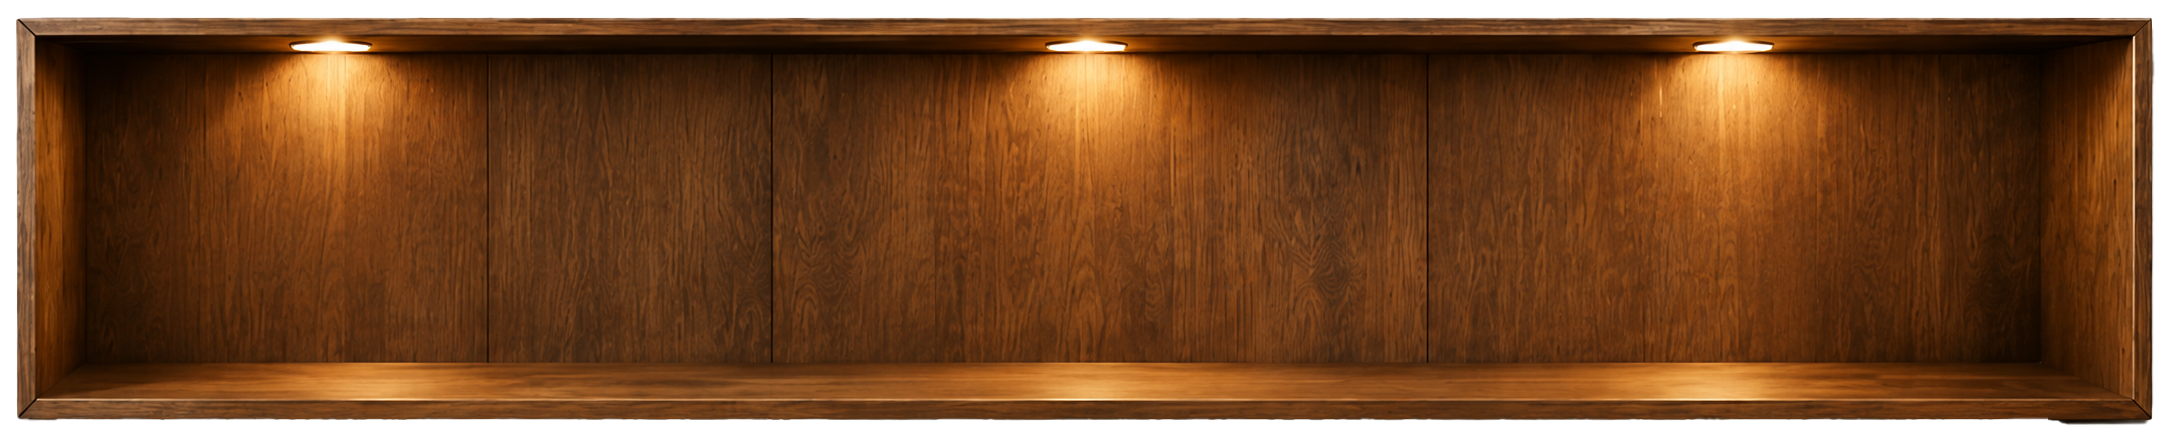
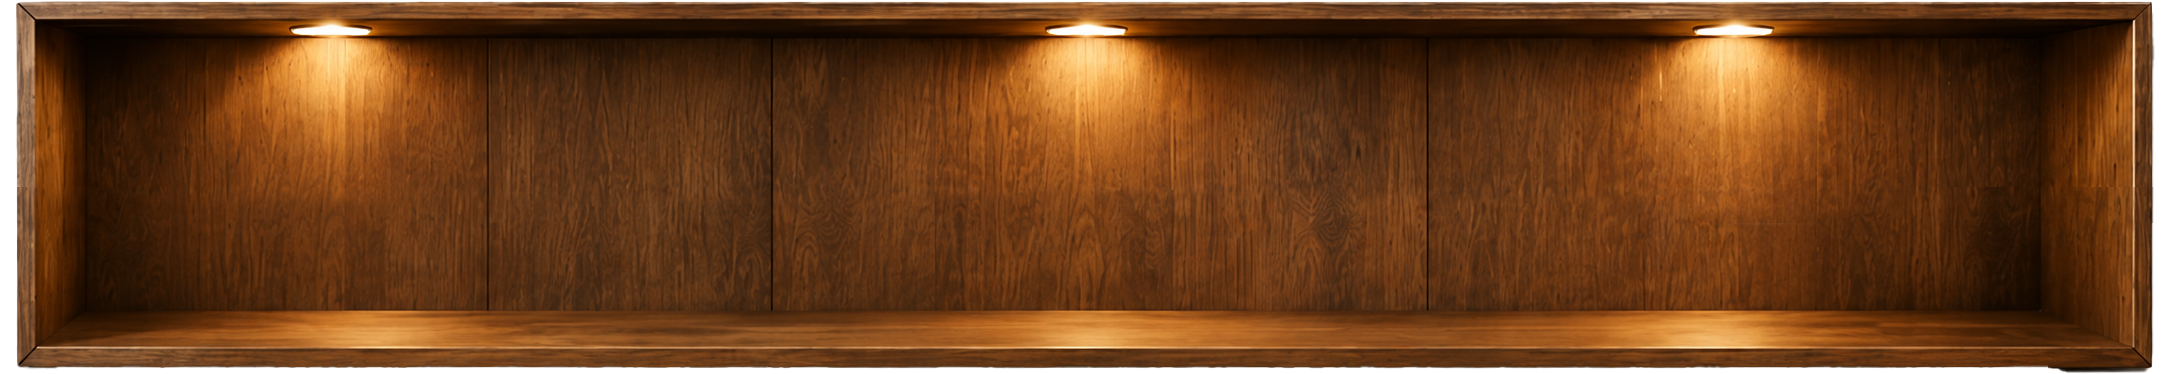
Refine compact category bookshelves

diff --git a/platform/public/assets/public-book-shelf.css b/platform/public/assets/public-book-shelf.css
@@ -1,13 +1,15 @@
-.public-book-shelf{position:relative;isolation:isolate;max-width:1590px;min-height:230px;aspect-ratio:2172/439;margin:0 auto 12px;color:#fff7e8}
+.public-book-shelf{position:relative;isolation:isolate;max-width:1590px;min-height:190px;aspect-ratio:2172/374;margin:0 auto 12px;color:#fff7e8}
 .public-book-shelf [hidden]{display:none!important}
 .public-book-shelf-background{display:block;width:100%;height:100%;position:absolute;inset:0;object-fit:fill;pointer-events:none}
 .public-book-shelf-inner{position:absolute;inset:0}
-.public-book-shelf-stage{position:absolute;inset:16% 3.5% 4%;display:flex;align-items:flex-end;min-width:0}
+.public-book-shelf-stage{position:absolute;inset:10% 4% calc(22% - 37px);display:flex;align-items:flex-end;min-width:0}
 .public-book-shelf-categories{display:flex;align-items:flex-end;gap:clamp(10px,1.2vw,20px);flex:none;width:max-content;max-width:100%;height:100%;min-width:0;overflow:hidden}
 .public-book-shelf-category{display:flex;flex-direction:column;align-items:flex-start;justify-content:flex-end;flex:none;width:max-content;max-width:100%;height:100%;min-width:0}
-.public-book-shelf-category-books{display:flex;align-items:flex-end;flex:1;width:max-content;max-width:100%;min-width:0;padding-top:10px;box-sizing:border-box;overflow-x:auto;overflow-y:hidden;scrollbar-width:thin;scrollbar-color:#c39151 transparent}
-.public-book-shelf-category-name{display:block;max-width:100%;min-width:95px;min-height:33px;margin-top:4px;padding:4px 10px 5px;border-radius:7px;background:#102132dc;color:#fff;overflow-wrap:anywhere;font:700 clamp(15px,1.35vw,22px)/1.18 Georgia,serif;text-shadow:0 1px 2px #000}
-.public-book-shelf-book{--book-height:clamp(158px,14vw,230px);display:flex;align-items:center;justify-content:center;flex-direction:column;flex:none;position:relative;width:clamp(34px,3vw,52px);height:min(var(--book-height),calc(100% - 10px));padding:8px 3px 10px;border:1px solid #2a2728;border-left-color:#f9ebc688;border-right:3px solid #0c1a25a8;border-radius:4px 6px 3px 3px;color:#fff6df!important;background:linear-gradient(90deg,#ffffff30 0%,transparent 12%,#00000024 84%,#00000069 100%),var(--book-color,#203e50);box-shadow:2px 1px 5px #0a111584,inset 2px 0 2px #ffffff25;text-decoration:none;cursor:pointer;transition:transform .22s ease,box-shadow .22s ease;z-index:1}
+.public-book-shelf-category-books{display:flex;align-items:flex-end;flex:1;width:max-content;max-width:100%;min-width:0;padding-top:16px;box-sizing:border-box;overflow:visible;scrollbar-width:thin;scrollbar-color:#c39151 transparent}
+.public-book-shelf-category-scrollable .public-book-shelf-category-books{overflow-x:auto;overflow-y:hidden}
+.public-book-shelf-category-name{display:block;max-width:100%;min-width:95px;min-height:33px;margin-top:4px;padding:4px 10px 5px;border-radius:7px;background:#102132dc;color:#fff!important;text-decoration:none;overflow-wrap:anywhere;font:700 clamp(15px,1.35vw,22px)/1.18 Georgia,serif;text-shadow:0 1px 2px #000}
+.public-book-shelf-category-name:is(a):hover,.public-book-shelf-category-name:is(a):focus-visible{background:#a06c20;outline:2px solid #fff8e7;outline-offset:2px}
+.public-book-shelf-book{--book-height:clamp(140px,12vw,190px);display:flex;align-items:center;justify-content:center;flex-direction:column;flex:none;position:relative;width:clamp(32px,2.35vw,43px);height:min(var(--book-height),calc(100% - 16px));padding:8px 3px 10px;border:1px solid #2a2728;border-left-color:#f9ebc688;border-right:3px solid #0c1a25a8;border-radius:4px 6px 3px 3px;color:#fff6df!important;background:linear-gradient(90deg,#ffffff30 0%,transparent 12%,#00000024 84%,#00000069 100%),var(--book-color,#203e50);box-shadow:2px 1px 5px #0a111584,inset 2px 0 2px #ffffff25;text-decoration:none;cursor:pointer;transition:transform .22s ease,box-shadow .22s ease;transform-origin:50% 100%;z-index:1}
 .public-book-shelf-book:nth-child(2n){--book-height:clamp(152px,13.1vw,214px)}
 .public-book-shelf-book:nth-child(3n){--book-height:clamp(156px,13.6vw,222px)}
 .public-book-shelf-book-1{--book-color:#d6b885;color:#172437!important;border-color:#8c704a}
@@ -20,15 +22,15 @@
 .public-book-shelf-book-title{writing-mode:vertical-rl;transform:rotate(180deg);display:block;max-height:calc(100% - 35px);max-width:calc(100% - 6px);overflow:hidden;overflow-wrap:anywhere;text-align:center;font:600 clamp(10px,.82vw,13px)/1.15 Georgia,serif;text-shadow:0 1px 1px #0007}
 .public-book-shelf-book-1 .public-book-shelf-book-title,.public-book-shelf-book-5 .public-book-shelf-book-title{text-shadow:none}
 .public-book-shelf-book-mark{position:absolute;bottom:3px;color:#d4ac5a;font:14px Georgia,serif}
-.public-book-shelf-book:hover,.public-book-shelf-book:focus-visible{z-index:3;transform:translateY(-9px) scale(1.04);box-shadow:0 13px 20px #0a1115ba,inset 2px 0 2px #ffffff48}
+.public-book-shelf-book:hover,.public-book-shelf-book:focus-visible{z-index:3;transform:perspective(450px) translateZ(50px) rotateY(-14deg) rotateZ(-3deg);box-shadow:14px 12px 22px #0a1115ba,inset 2px 0 2px #ffffff48}
 .public-book-shelf-book:focus-visible{outline:2px solid #fff7de;outline-offset:2px}
-.public-book-shelf-decor{display:flex;align-items:flex-end;gap:clamp(7px,1vw,18px);flex:none;margin-left:auto;height:100%;min-width:0;pointer-events:none}
+.public-book-shelf-decor{display:flex;align-items:flex-end;gap:clamp(7px,1vw,18px);flex:none;margin-left:auto;height:100%;min-width:0;padding-bottom:37px;box-sizing:border-box;pointer-events:none}
 .public-book-shelf-motto{align-self:flex-start;white-space:pre-line;min-width:clamp(78px,9vw,145px);padding-top:10%;font:italic clamp(16px,2vw,29px)/1.16 Georgia,serif;color:#f9e0a5;text-shadow:0 1px 3px #36200a}
-.public-book-shelf-globe{display:block;width:clamp(93px,9vw,145px);height:auto;max-height:100%;object-fit:contain}
+.public-book-shelf-globe{display:block;width:clamp(145px,13vw,205px);height:auto;max-height:100%;object-fit:contain}
 .public-book-shelf-plant-right,.public-book-shelf-plant-left{display:block;width:clamp(105px,10vw,165px);height:auto;max-height:100%;object-fit:contain}
-.public-book-shelf-plant-left{flex:none;pointer-events:none}
+.public-book-shelf-plant-left{flex:none;margin-bottom:37px;pointer-events:none}
 .public-book-shelf-all{display:block;flex:none;align-self:flex-end;margin-left:auto;margin-bottom:4px;padding:8px 10px;border-radius:6px;background:#102132e8;color:#fff!important;white-space:nowrap;font:600 12px Inter,Arial,sans-serif;text-decoration:none;box-shadow:0 3px 8px #0008}
 .public-book-shelf-all:hover,.public-book-shelf-all:focus-visible{background:#8d621e;outline-color:#fff}
 @media(max-width:1550px){.public-book-shelf{margin-left:24px;margin-right:24px}}
-@media(max-width:800px){.public-book-shelf{margin:0 16px 12px;min-height:245px;aspect-ratio:auto}.public-book-shelf-background{object-fit:cover;object-position:center}.public-book-shelf-stage{inset:19% 6% 6%}.public-book-shelf-book{width:37px}.public-book-shelf-category-name{font-size:16px;min-height:30px}.public-book-shelf-motto{font-size:16px}.public-book-shelf-globe{width:60px}.public-book-shelf-plant-left,.public-book-shelf-plant-right{width:65px}}
+@media(max-width:800px){.public-book-shelf{margin:0 16px 12px;min-height:225px;aspect-ratio:auto}.public-book-shelf-background{object-fit:cover;object-position:center}.public-book-shelf-stage{inset:12% 6% calc(22% - 34px)}.public-book-shelf-book{width:35px}.public-book-shelf-category-name{font-size:16px;min-width:80px;min-height:30px;padding:4px 6px}.public-book-shelf-decor{padding-bottom:34px}.public-book-shelf-plant-left{margin-bottom:34px}.public-book-shelf-motto{font-size:16px}.public-book-shelf-globe{width:90px}.public-book-shelf-plant-left,.public-book-shelf-plant-right{width:55px}}
 @media(prefers-reduced-motion:reduce){.public-book-shelf-book{transition:none}.public-book-shelf-book:hover,.public-book-shelf-book:focus-visible{transform:none}}

diff --git a/platform/public/assets/public-book-shelf.js b/platform/public/assets/public-book-shelf.js
@@ -20,7 +20,7 @@
     const motto = shelf.querySelector('[data-shelf-motto]');
     const globe = shelf.querySelector('[data-shelf-globe]');
     const right = shelf.querySelector('[data-shelf-plant-right]');
-    for (const group of groups) { group.hidden = false; group.style.maxWidth = ''; }
+    for (const group of groups) { group.hidden = false; group.style.maxWidth = ''; group.classList.remove('public-book-shelf-category-scrollable'); }
     left.hidden = true;
     motto.hidden = globe.hidden = right.hidden = true;
     all.hidden = true;
@@ -39,7 +39,10 @@
       for (const [index, group] of groups.entries()) {
         const next = used + (shown ? gap : 0) + widths[index];
         if (shown > 0 && next > budget) { group.hidden = true; continue; }
-        if (shown === 0 && widths[index] > budget) group.style.maxWidth = `${budget}px`;
+        if (shown === 0 && widths[index] > budget) {
+          group.style.maxWidth = `${budget}px`;
+          group.classList.add('public-book-shelf-category-scrollable');
+        }
         used += (shown ? gap : 0) + Math.min(widths[index], budget);
         shown++;
       }
@@ -47,6 +50,7 @@
       all.hidden = !overflow;
     } else if (groups.length === 1 && total > stage.clientWidth) {
       groups[0].style.maxWidth = `${stage.clientWidth}px`;
+      groups[0].classList.add('public-book-shelf-category-scrollable');
     }
 
     const free = Math.max(0, stage.clientWidth - used - (overflow ? widthOf(all) + gap : 0));

diff --git a/platform/tests/Feature/PublicTaxonomyUiTest.php b/platform/tests/Feature/PublicTaxonomyUiTest.php
@@ -31,6 +31,7 @@ class PublicTaxonomyUiTest extends TestCase
         $home = $this->get('/')->assertOk()->assertSee('data-public-book-shelf', false)
             ->assertSee('/assets/book-shelf/shelf.png', false)
             ->assertSee('public-book-shelf-book', false)->assertSee('Medizin')->assertSee('Anatomie')
+            ->assertSee('href="'.route('public.categories', ['category'=>'medizin']).'"', false)
             ->assertSee('href="'.route('public.beitraege', ['taxonomy'=>'anatomie']).'"', false)
             ->assertDontSee('public-taxonomy-crumbs', false)
             ->assertDontSee($cover->publicUrl(), false);
@@ -49,6 +50,7 @@ class PublicTaxonomyUiTest extends TestCase
         }
         $this->get('/beitraege')->assertOk()->assertSee('data-public-book-shelf', false)
             ->assertSee('Medizin')->assertSee('Anatomie')
+            ->assertSee('href="'.route('public.beitraege', ['taxonomy'=>'medizin']).'"', false)
             ->assertSee('href="'.route('public.beitraege', ['taxonomy'=>'anatomie']).'"', false)
             ->assertDontSee('public-taxonomy-crumbs', false);
         $this->get('/beitraege?taxonomy=medizin')->assertOk()->assertSee('Anatomie Beitrag');
@@ -77,7 +79,10 @@ class PublicTaxonomyUiTest extends TestCase
         $category = TaxonomyTerm::create(['kind'=>'category','name'=>'Empty category',
             'slug'=>'empty-category','active'=>true]);
 
-        $this->assertSame([['id'=>$category->id,'name'=>'Empty category']], app(\App\Services\PublicTaxonomy::class)->homeCategories());
+        $this->assertSame([[
+            'id'=>$category->id,'name'=>'Empty category','slug'=>'empty-category',
+            'url'=>route('public.categories', ['category'=>'empty-category']),
+        ]], app(\App\Services\PublicTaxonomy::class)->homeCategories());
         $this->get('/')->assertOk()->assertSee('Empty category')
             ->assertSee('data-shelf-plant-left', false)
             ->assertSee('data-shelf-category="0"', false)
@@ -95,9 +100,16 @@ class PublicTaxonomyUiTest extends TestCase
 
         $this->get('/themen')->assertOk()->assertSee('data-book-cabinet', false)
             ->assertSee('Anatomie und Bibelwissen')->assertSee('Gebet')
+            ->assertSee('href="'.route('public.categories', ['category'=>'medizin']).'"', false)
             ->assertSee('href="'.route('public.beitraege', ['taxonomy'=>'anatomie-bibelwissen']).'"', false)
             ->assertSee('href="'.route('public.beitraege', ['taxonomy'=>'gebet']).'"', false)
             ->assertSee('public-overview-hero', false);
+        $this->get('/themen?category=medizin')->assertOk()
+            ->assertSee('<title>Medizin', false)
+            ->assertSee('Anatomie und Bibelwissen')
+            ->assertDontSee('href="'.route('public.beitraege', ['taxonomy'=>'gebet']).'"', false)
+            ->assertViewHas('directoryShelves', fn (array $shelves) => count($shelves) === 1 && $shelves[0]['slug'] === 'medizin')
+            ->assertSee(__('public.category_directory_all'));
         $this->assertCount(2, app(\App\Services\PublicTaxonomy::class)->directoryShelves());
     }
 

diff --git a/platform/resources/views/public/categories.blade.php b/platform/resources/views/public/categories.blade.php
@@ -1,9 +1,9 @@
-@extends('public.layout', ['title'=>__('public.category_directory_title')])
+@extends('public.layout', ['title'=>$selectedShelf['name'] ?? __('public.category_directory_title')])
 @push('publicStyles')
-<link rel="stylesheet" href="/assets/public-book-shelf.css?v=1">
+<link rel="stylesheet" href="/assets/public-book-shelf.css?v=2">
 <link rel="stylesheet" href="/assets/public-category-directory.css?v=1">
 @endpush
-@push('publicScripts')<script src="/assets/public-book-shelf.js?v=1" defer></script>@endpush
+@push('publicScripts')<script src="/assets/public-book-shelf.js?v=2" defer></script>@endpush
 
 @section('content')
 @php
@@ -15,14 +15,14 @@
     <div class="public-overview-hero-inner">
         <div class="public-overview-copy">
             <p class="public-eyebrow">{{ __('public.categories') }}</p>
-            <h1>{{ __('public.category_directory_title') }}</h1>
-            <p class="public-overview-intro">{{ __('public.category_directory_intro') }}</p>
-            <div class="public-overview-actions"><a class="public-button" href="#cabinet">{{ __('public.category_directory_explore') }} →</a></div>
+            <h1>{{ $selectedShelf['name'] ?? __('public.category_directory_title') }}</h1>
+            <p class="public-overview-intro">{{ $selectedShelf ? __('public.category_directory_selected_intro') : __('public.category_directory_intro') }}</p>
+            <div class="public-overview-actions"><a class="public-button" href="{{ $selectedShelf ? route('public.categories') : '#cabinet' }}">{{ $selectedShelf ? __('public.category_directory_all') : __('public.category_directory_explore') }} →</a></div>
         </div>
         <div class="public-overview-feature public-directory-feature">
             <img class="public-photo" src="{{ $heroImage }}" alt="" aria-hidden="true">
             <div class="public-feature-content">
-                <span class="public-feature-label">{{ __('public.category_directory_title') }}</span>
+                <span class="public-feature-label">{{ $selectedShelf['name'] ?? __('public.category_directory_title') }}</span>
                 <h2>{{ trans_choice('public.category_directory_categories_count', $categoryCount, ['count'=>$categoryCount]) }}</h2>
                 <p>{{ trans_choice('public.category_directory_topics_count', $topicCount, ['count'=>$topicCount]) }}</p>
             </div>

diff --git a/platform/lang/de/public.php b/platform/lang/de/public.php
@@ -34,7 +34,7 @@ return [
     'featured_videos'=>'FEATURED VIDEO','featured_beitraege'=>'FEATURED BEITRAG','featured_buecher'=>'BUCH-EMPFEHLUNG','featured_podcast'=>'FEATURED PODCAST','featured_live'=>'NÄCHSTER LIVESTREAM','featured_ueber-uns'=>'WILLKOMMEN','featured_unsere-mission'=>'UNSERE MISSION',
     'all_beitraege'=>'Alle Beiträge','all_buecher'=>'Alle Bücher','all_podcast'=>'Alle Podcasts','all_community'=>'Alle Beiträge',
     'shelf_motto'=>"Wissen.\nGlaube.\nLeben.",
-    'shelf_see_all'=>'Alle ansehen','category_directory_title'=>'Kategorien und Themen','category_directory_intro'=>'Entdecke alle Kategorien und ihre Themen. Klicke auf ein Buch, um das Thema im passenden Bereich zu öffnen.','category_directory_explore'=>'Regale entdecken',
+    'shelf_see_all'=>'Alle ansehen','category_directory_title'=>'Kategorien und Themen','category_directory_intro'=>'Entdecke alle Kategorien und ihre Themen. Klicke auf ein Buch, um das Thema im passenden Bereich zu öffnen.','category_directory_selected_intro'=>'Entdecke alle Themen dieser Kategorie. Wähle ein Buch, um das Thema im passenden Bereich zu öffnen.','category_directory_explore'=>'Regale entdecken','category_directory_all'=>'Alle Kategorien',
     'category_directory_categories_count'=>'{1} :count Kategorie|[2,*] :count Kategorien','category_directory_topics_count'=>'{1} :count Thema|[2,*] :count Themen',
     'taxonomy_eyebrow'=>'THEMENWELTEN','categories'=>'Kategorien','explore_videos_by_topic'=>'Videos nach Themen entdecken','explore_beitraege_by_topic'=>'Beiträge nach Themen entdecken','explore_buecher_by_topic'=>'Bücher nach Themen entdecken','home_topics_title'=>'Themen, die dich bewegen','home_topics_intro'=>'Wähle zuerst ein Thema und dann den gewünschten Bereich. Videos, Beiträge und Bücher bleiben dabei getrennt.','home_topics_all'=>'Alle Themen entdecken',
     'section_item_count_videos'=>'{1} :count Video|[2,*] :count Videos','section_item_count_beitraege'=>'{1} :count Beitrag|[2,*] :count Beiträge','section_item_count_buecher'=>'{1} :count Buch|[2,*] :count Bücher',

diff --git a/platform/lang/en/public.php b/platform/lang/en/public.php
@@ -34,7 +34,7 @@ return [
     'featured_videos'=>'FEATURED VIDEO','featured_beitraege'=>'FEATURED ARTICLE','featured_buecher'=>'RECOMMENDED BOOK','featured_podcast'=>'FEATURED PODCAST','featured_live'=>'NEXT LIVESTREAM','featured_ueber-uns'=>'WELCOME','featured_unsere-mission'=>'OUR MISSION',
     'all_beitraege'=>'All articles','all_buecher'=>'All books','all_podcast'=>'All podcasts','all_community'=>'All posts',
     'shelf_motto'=>"Knowledge.\nFaith.\nLife.",
-    'shelf_see_all'=>'See all','category_directory_title'=>'Categories and topics','category_directory_intro'=>'Explore every category and its topics. Choose a book to open the topic in its matching section.','category_directory_explore'=>'Explore shelves',
+    'shelf_see_all'=>'See all','category_directory_title'=>'Categories and topics','category_directory_intro'=>'Explore every category and its topics. Choose a book to open the topic in its matching section.','category_directory_selected_intro'=>'Explore every topic in this category. Choose a book to open the topic in its matching section.','category_directory_explore'=>'Explore shelves','category_directory_all'=>'All categories',
     'category_directory_categories_count'=>'{1} :count category|[2,*] :count categories','category_directory_topics_count'=>'{1} :count topic|[2,*] :count topics',
     'taxonomy_eyebrow'=>'TOPIC WORLDS','categories'=>'Categories','explore_videos_by_topic'=>'Discover videos by topic','explore_beitraege_by_topic'=>'Discover articles by topic','explore_buecher_by_topic'=>'Discover books by topic','home_topics_title'=>'Topics that matter to you','home_topics_intro'=>'Choose a topic, then choose the section. Videos, articles and books always remain separate.','home_topics_all'=>'Discover all topics',
     'section_item_count_videos'=>'{1} :count video|[2,*] :count videos','section_item_count_beitraege'=>'{1} :count article|[2,*] :count articles','section_item_count_buecher'=>'{1} :count book|[2,*] :count books',

diff --git a/platform/app/Services/PublicTaxonomy.php b/platform/app/Services/PublicTaxonomy.php
@@ -110,9 +110,11 @@ class PublicTaxonomy
     public function homeCategories(): array
     {
         return TaxonomyTerm::where('active', true)->where('kind', 'category')->orderBy('name')
-            ->get(['id', 'name'])->map(fn (TaxonomyTerm $term) => [
+            ->get(['id', 'name', 'slug'])->map(fn (TaxonomyTerm $term) => [
                 'id' => (int) $term->id,
                 'name' => $term->name,
+                'slug' => $term->slug,
+                'url' => route('public.categories', ['category' => $term->slug]),
             ])->sort(fn (array $left, array $right) => strnatcasecmp($left['name'], $right['name']))
             ->values()->all();
     }
@@ -123,7 +125,12 @@ class PublicTaxonomy
         $published = collect($this->homeTopics())->keyBy('id');
         $shelves = [];
         foreach ($terms->where('kind', 'category')->sort(fn (TaxonomyTerm $left, TaxonomyTerm $right) => strnatcasecmp($left->name, $right->name)) as $category) {
-            $shelves[(int) $category->id] = ['name' => $category->name, 'books' => []];
+            $shelves[(int) $category->id] = [
+                'name' => $category->name,
+                'slug' => $category->slug,
+                'url' => route('public.categories', ['category' => $category->slug]),
+                'books' => [],
+            ];
         }
         foreach ($terms->where('kind', 'topic') as $topic) {
             $category = $this->categoryForTopic($terms, (int) $topic->id);

diff --git a/platform/resources/views/public/book-shelf.blade.php b/platform/resources/views/public/book-shelf.blade.php
@@ -1,6 +1,6 @@
 @php($groups = collect($shelfGroups ?? []))
 <section class="public-book-shelf" aria-label="{{ $shelfLabel ?? __('public.categories').' / '.__('public.topics') }}" data-public-book-shelf data-shelf-decor-mode="{{ $shelfDecor ?? 'auto' }}">
-    <img class="public-book-shelf-background" src="/assets/book-shelf/shelf.png" alt="" aria-hidden="true" loading="lazy">
+    <img class="public-book-shelf-background" src="/assets/book-shelf/shelf.png?v=2" alt="" aria-hidden="true" loading="lazy">
     <div class="public-book-shelf-inner">
         <div class="public-book-shelf-stage" data-shelf-stage>
             <img class="public-book-shelf-plant-left" data-shelf-plant-left src="/assets/book-shelf/plant-left.png" alt="" aria-hidden="true" loading="lazy" hidden>
@@ -15,7 +15,11 @@
                         </a>
                         @endforeach
                     </div>
+                    @if($group['url'] ?? null)
+                    <a class="public-book-shelf-category-name" href="{{ $group['url'] }}" @if($group['selected'] ?? false) aria-current="page" @endif>{{ $group['name'] }}</a>
+                    @else
                     <span class="public-book-shelf-category-name">{{ $group['name'] }}</span>
+                    @endif
                 </div>
                 @endforeach
             </div>

diff --git a/platform/app/Http/Controllers/PublicWebsiteController.php b/platform/app/Http/Controllers/PublicWebsiteController.php
@@ -26,10 +26,13 @@ class PublicWebsiteController extends Controller
             'live'=>$live?$content->card($live):null,'homeTopics'=>$taxonomy->homeTopics(),
             'homeCategories'=>$taxonomy->homeCategories()]);
     }
-    public function categories(PublicTaxonomy $taxonomy)
+    public function categories(Request $request, PublicTaxonomy $taxonomy)
     {
+        $shelves = $taxonomy->directoryShelves();
+        $selected = $request->filled('category')
+            ? collect($shelves)->firstWhere('slug', $request->query('category')) : null;
         return view('public.categories', [...$this->shared(), 'section'=>'categories',
-            'directoryShelves'=>$taxonomy->directoryShelves()]);
+            'directoryShelves'=>$selected ? [$selected] : $shelves, 'selectedShelf'=>$selected]);
     }
     public function recordView(Request $request, SourceRecord $record, PublicContent $content, PublicViewCounter $counter)
     {

diff --git a/platform/resources/views/public/home.blade.php b/platform/resources/views/public/home.blade.php
@@ -10,11 +10,11 @@
 <link rel="stylesheet" href="/assets/public.css">
 <link rel="stylesheet" href="/assets/public-rich-content.css?v=1">
 <link rel="stylesheet" href="/assets/public-pages.css?v=26">
-<link rel="stylesheet" href="/assets/public-book-shelf.css?v=1">
+<link rel="stylesheet" href="/assets/public-book-shelf.css?v=2">
 <link rel="icon" href="/favicon.png">
 <script src="/assets/public.js?v=13" defer>
 </script>
-<script src="/assets/public-book-shelf.js?v=1" defer></script>
+<script src="/assets/public-book-shelf.js?v=2" defer></script>
 </head>
 <body class="public-site public-editorial public-home public-layout-overview public-section-start">
 

diff --git a/platform/resources/views/public/section-book-shelf.blade.php b/platform/resources/views/public/section-book-shelf.blade.php
@@ -6,6 +6,8 @@
     $groups = collect($shelfCategories ?? [])->map(fn (array $category) => [
         'id' => $category['id'],
         'name' => $category['name'],
+        'url' => route('public.beitraege', ['taxonomy' => $category['slug']]),
+        'selected' => $category['id'] === $selected,
         'books' => $filters->where('kind', 'topic')->where('category_id', $category['id'])
             ->map(fn (array $topic) => [
                 'name' => $topic['name'], 'url' => $topic['url'],

diff --git a/platform/resources/views/public/beitraege.blade.php b/platform/resources/views/public/beitraege.blade.php
@@ -1,6 +1,6 @@
 @extends('public.layout',['title'=>__('public.section_beitraege')])
-@push('publicStyles')<link rel="stylesheet" href="/assets/public-book-shelf.css?v=1">@endpush
-@push('publicScripts')<script src="/assets/public-book-shelf.js?v=1" defer></script>@endpush
+@push('publicStyles')<link rel="stylesheet" href="/assets/public-book-shelf.css?v=2">@endpush
+@push('publicScripts')<script src="/assets/public-book-shelf.js?v=2" defer></script>@endpush
 
 @section('content')
 
